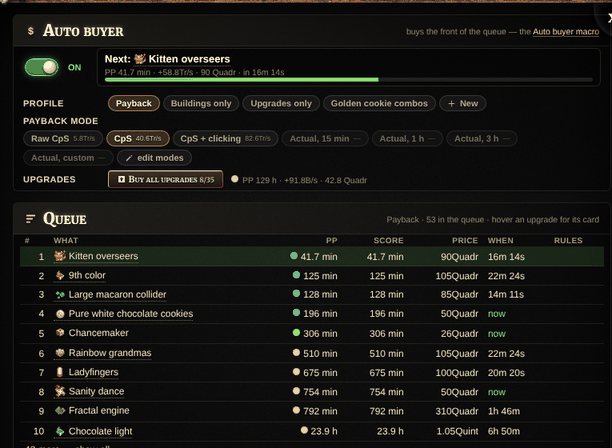
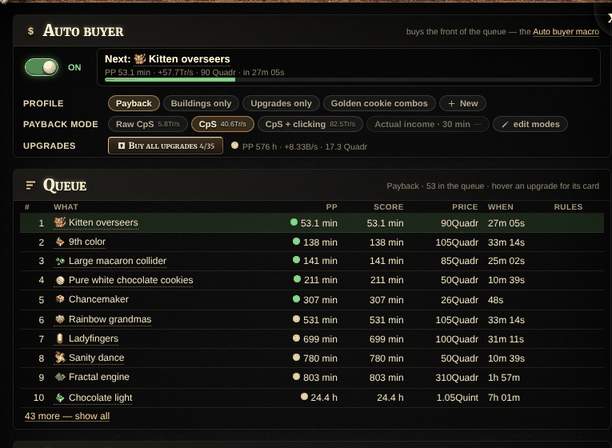
README: one Actual income mode in the Payback picture
Claude-Session: https://claude.ai/code/session_01ALSqfrVYPdvMWWjAoC9JVy

diff --git a/README.md b/README.md
@@ -84,7 +84,7 @@ the page. [See every page with a screenshot](#pages).
 <td width="50%" valign="top">
 <b>Payback</b><br>
 <img src="docs/readme/payback.png" alt="The Payback page" width="100%">
-<ul><li>An exact payback period for every building and upgrade</li><li>The Auto buyer: a queue, profiles with rules, and a bank reserve</li><li>Payback measured by CpS, clicking, or what you actually took in over a window you set (15 min, 1 h, 3 h or any time)</li><li>Buy all upgrades in one click, ranked in the queue by its own payback period</li></ul>
+<ul><li>An exact payback period for every building and upgrade</li><li>The Auto buyer: a queue, profiles with rules, and a bank reserve</li><li>Payback measured by CpS, clicking, or what you actually took in over a window you set (30 min by default; 15 min, 1 h, 3 h or any time)</li><li>Buy all upgrades in one click, ranked in the queue by its own payback period</li></ul>
 </td>
 <td width="50%" valign="top">
 <b>Garden</b><br>

diff --git a/changes/readme-actual-income-window.md b/changes/readme-actual-income-window.md
@@ -1,0 +1,4 @@
+---
+bump: patch
+---
+- **README:** the Payback picture shows the single Actual income mode, and the Payback tile names its 30 min default window.
